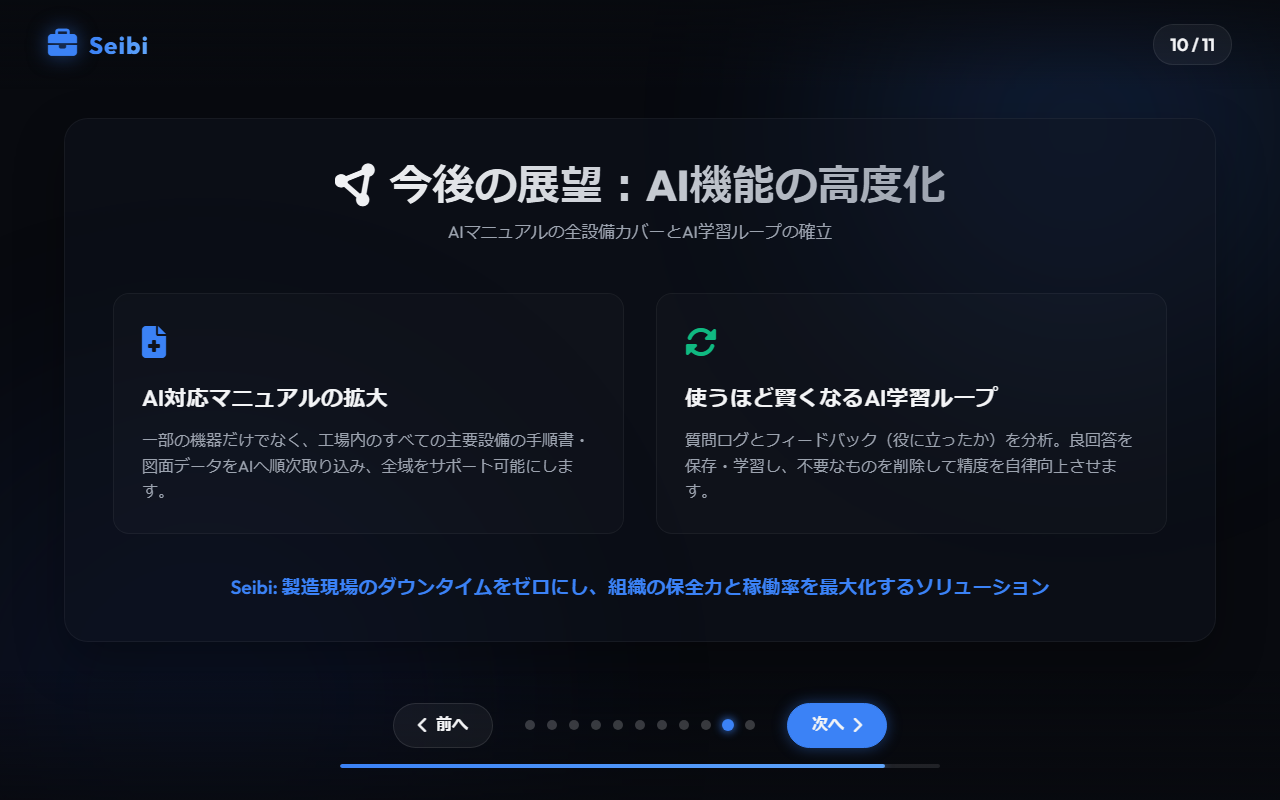
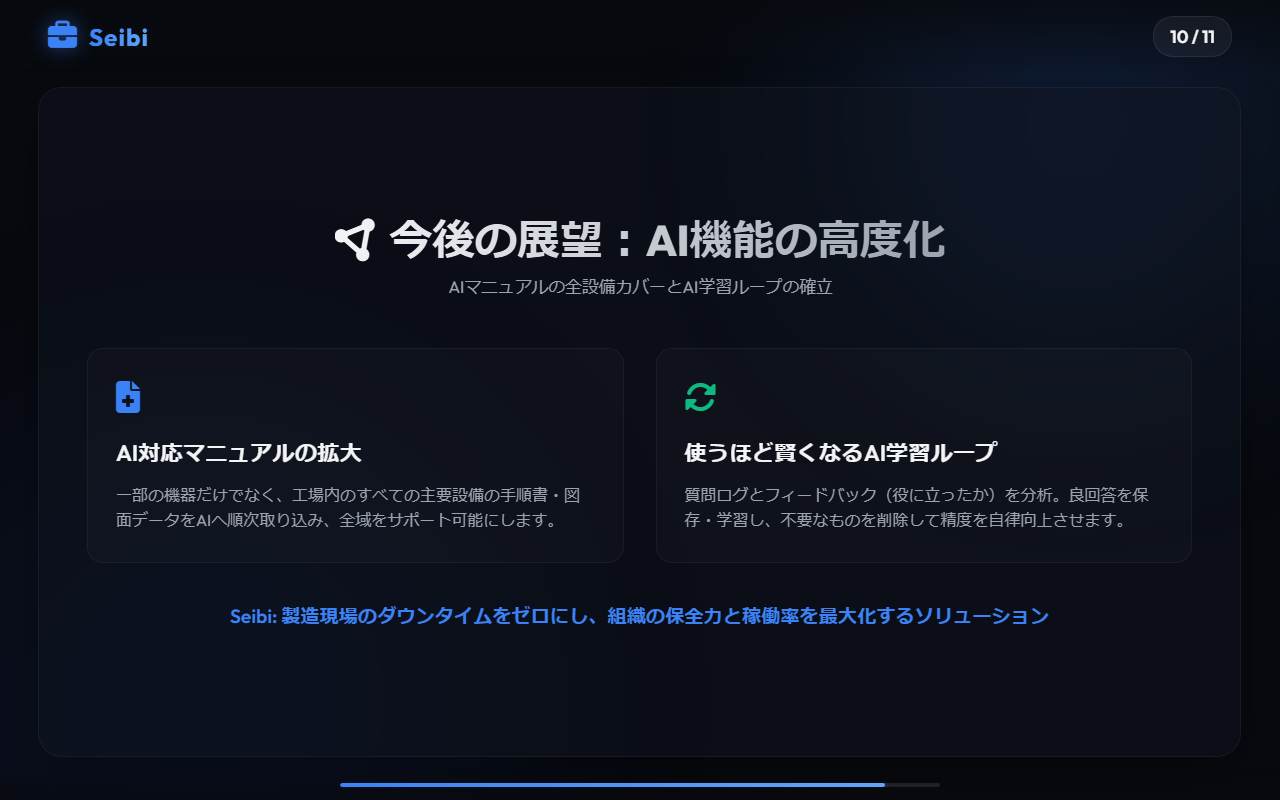
Hide navigation footer controls, expand slide dimensions to be larger

diff --git a/styles.css b/styles.css
@@ -59,7 +59,7 @@ body {
   display: flex;
   justify-content: space-between;
   align-items: center;
-  padding: 1.5rem 3rem;
+  padding: 1rem 3rem;
   background: linear-gradient(to bottom, rgba(8, 10, 15, 0.8), rgba(8, 10, 15, 0));
   backdrop-filter: blur(5px);
 }
@@ -99,8 +99,8 @@ body {
   flex-grow: 1;
   position: relative;
   z-index: 5;
-  width: 90%;
-  max-width: 1400px;
+  width: 94%;
+  max-width: 1550px;
   margin: 0 auto;
   display: flex;
   align-items: center;
@@ -110,7 +110,7 @@ body {
 .slide {
   position: absolute;
   width: 100%;
-  height: 90%;
+  height: 96%;
   opacity: 0;
   pointer-events: none;
   transform: scale(0.97) translateY(20px);
@@ -469,16 +469,16 @@ kbd {
 .global-footer {
   position: relative;
   z-index: 10;
-  padding: 2rem 3rem;
+  padding: 0.8rem 3rem;
   display: flex;
   flex-direction: column;
   align-items: center;
-  gap: 1rem;
+  gap: 0.5rem;
   background: linear-gradient(to top, rgba(8, 10, 15, 0.8), rgba(8, 10, 15, 0));
 }
 
 .navigation-controls {
-  display: flex;
+  display: none;
   align-items: center;
   gap: 2rem;
 }

diff --git a/verify_web.py b/verify_web.py
@@ -24,7 +24,7 @@ async def run():
             
             # Slide 2 to 11
             for slide_num in range(2, 12):
-                await page.click('#next-btn')
+                await page.keyboard.press('ArrowRight')
                 await page.wait_for_timeout(2500)  # Wait for animations and videos
                 screenshot_name = f"web_slide_{slide_num}.png"
                 await page.screenshot(path=screenshot_name)
